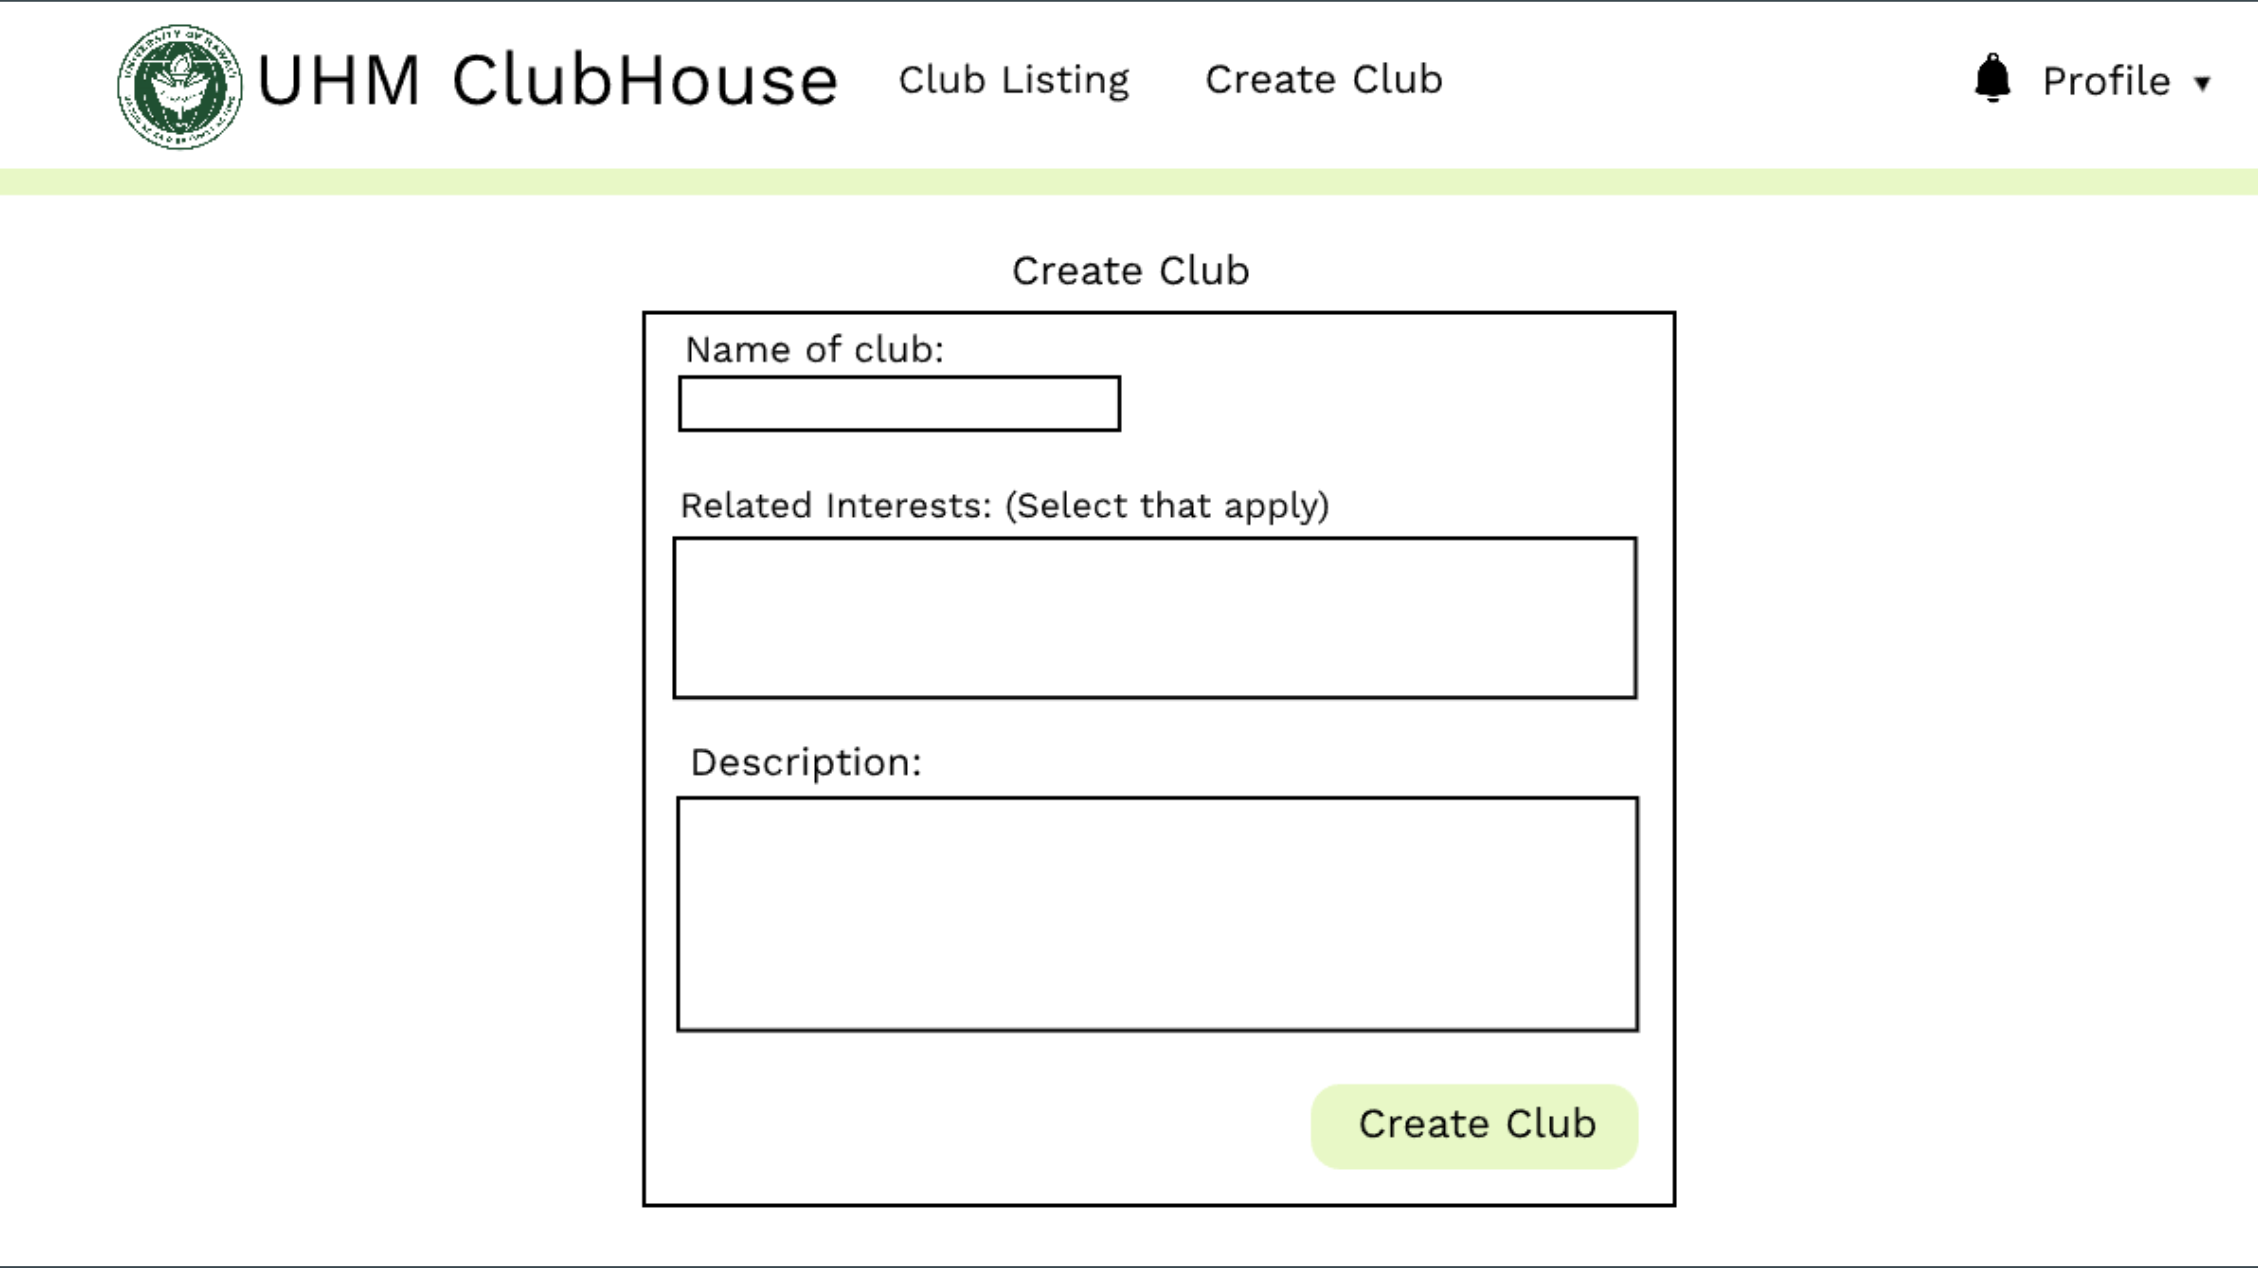
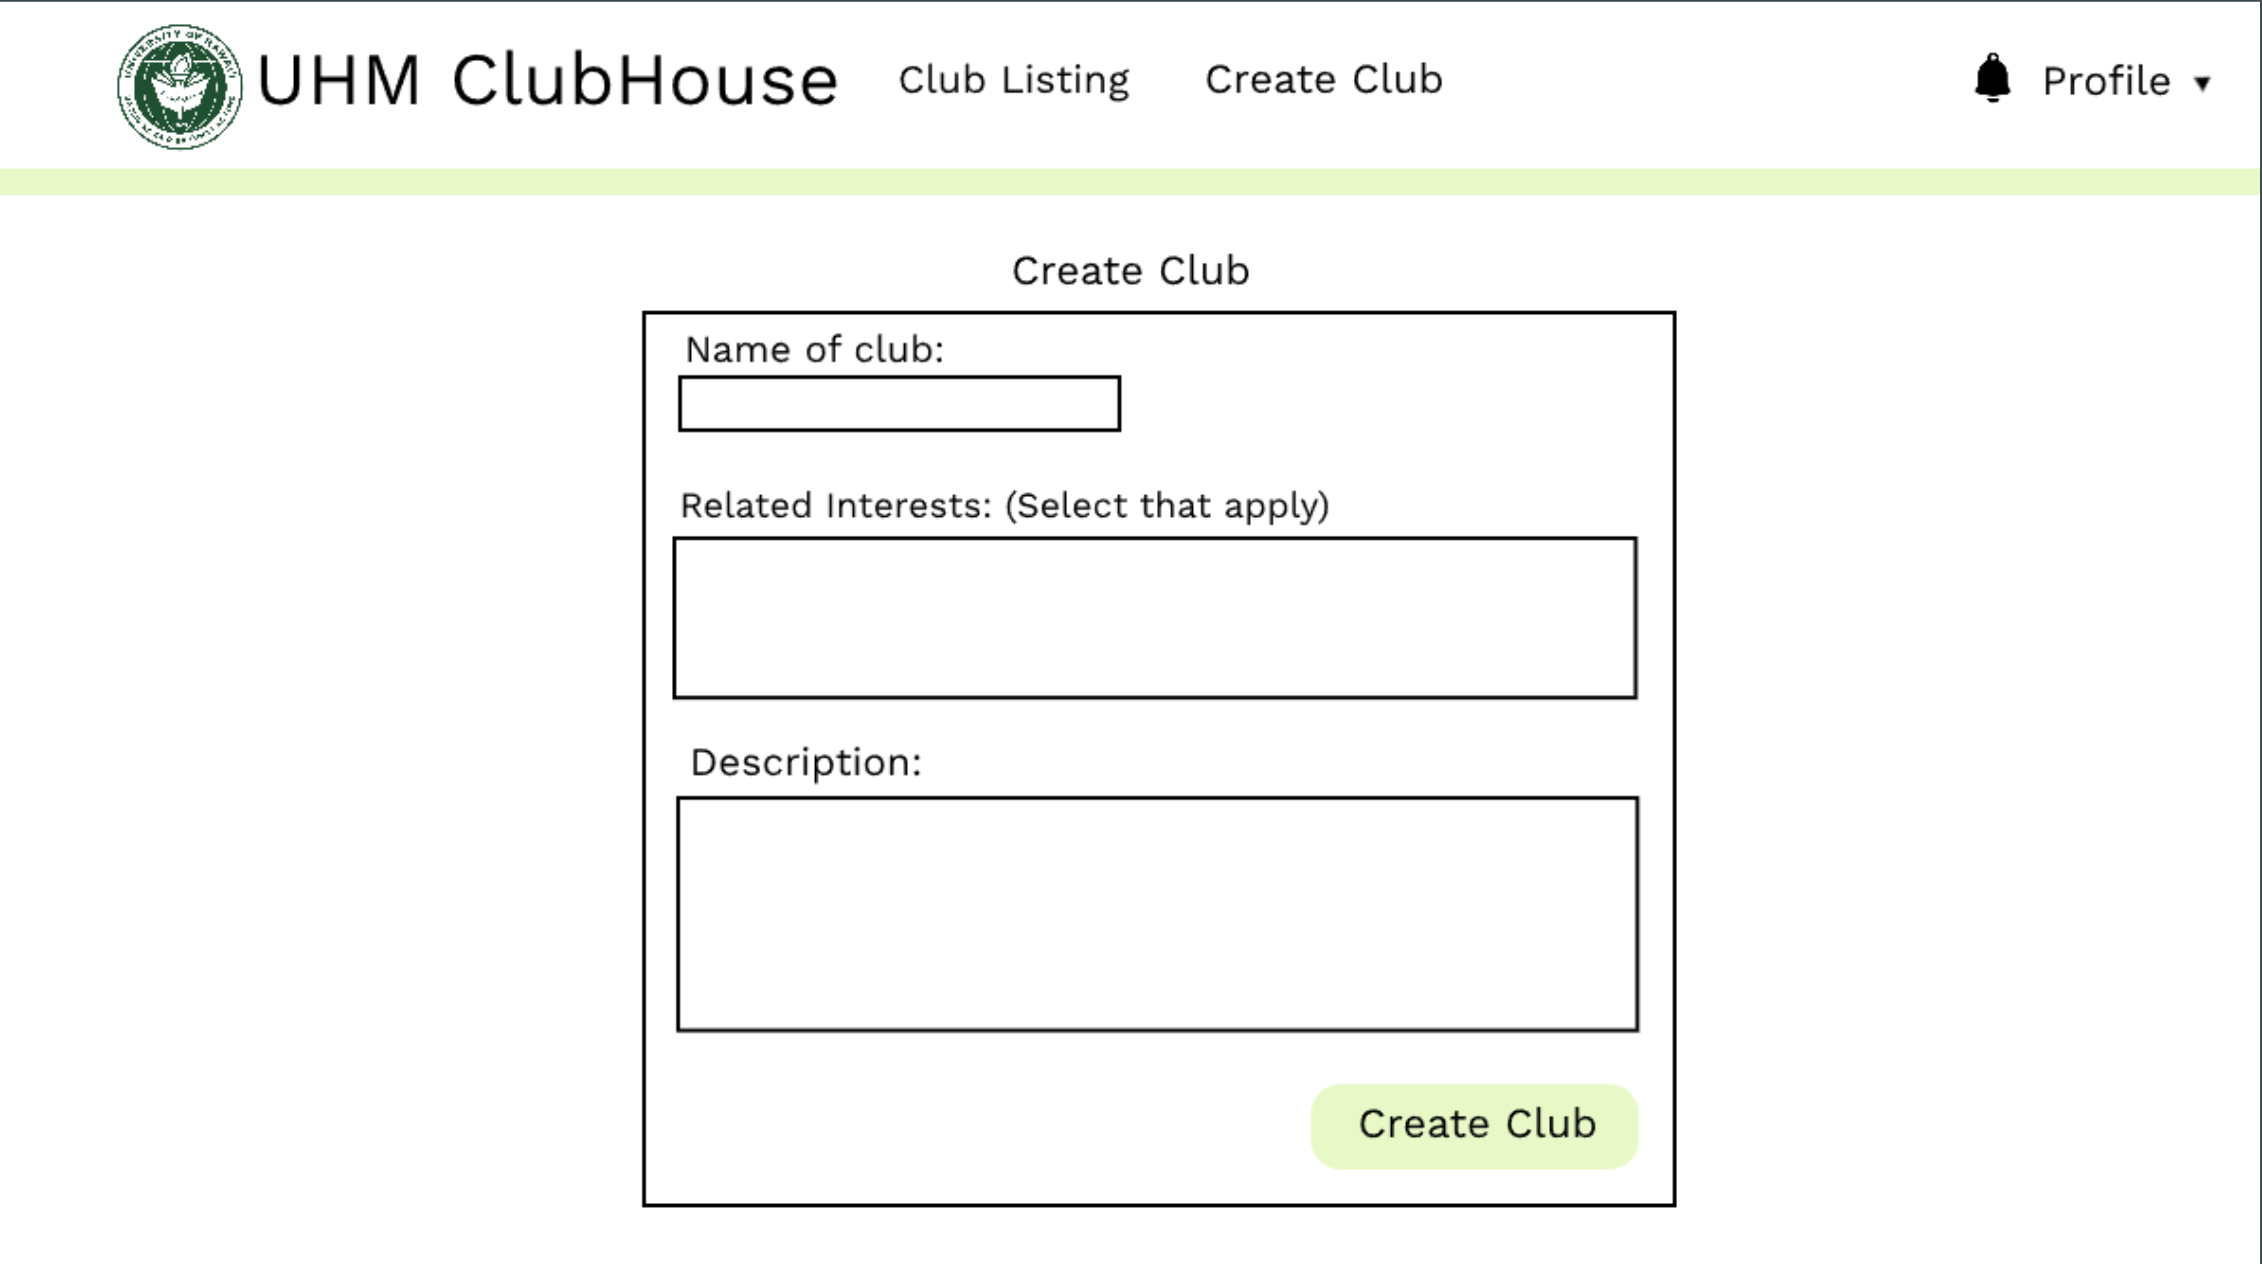
Added create club image under User Guide

diff --git a/index.md b/index.md
@@ -57,6 +57,11 @@ This page is the listing page, where users can browse all the available clubs th
 
 <img src="images/club-listing.png">
 
+#### Club Creation Page
+This page is the club creation page, where users can create a posting for their club. 
+
+<img src="images/create-club.png">
+
 #### Club Admin Home Page
 Users with the Club Admin role can view all of their club postings and have the ability to edit the data associated with their club.
 
